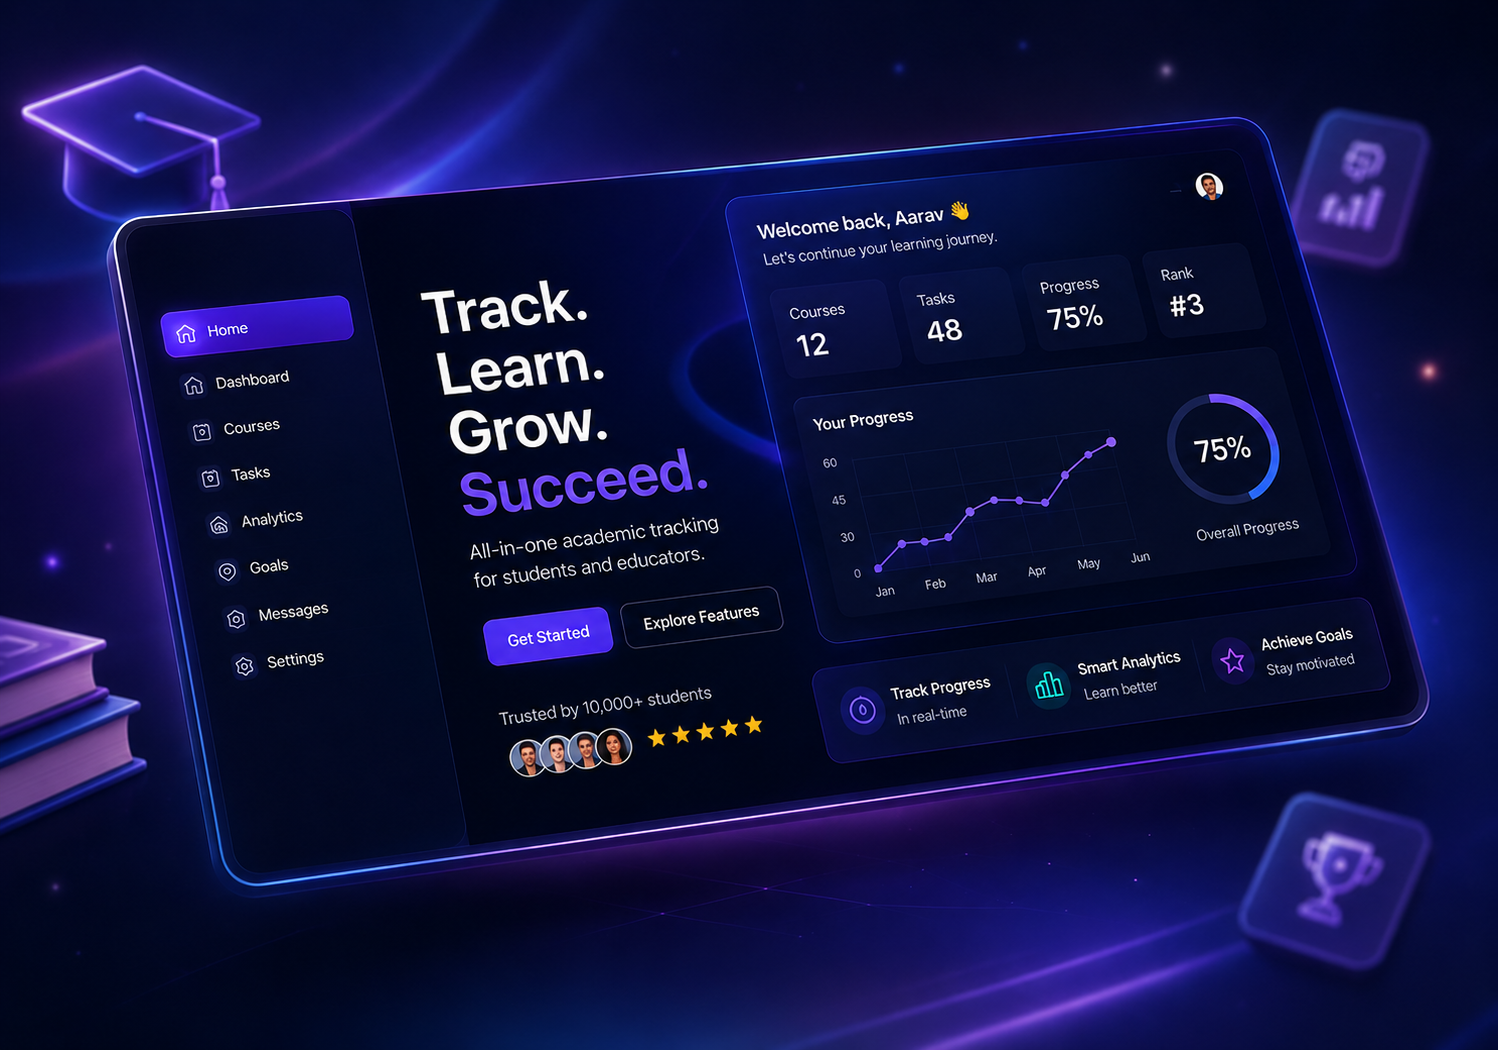
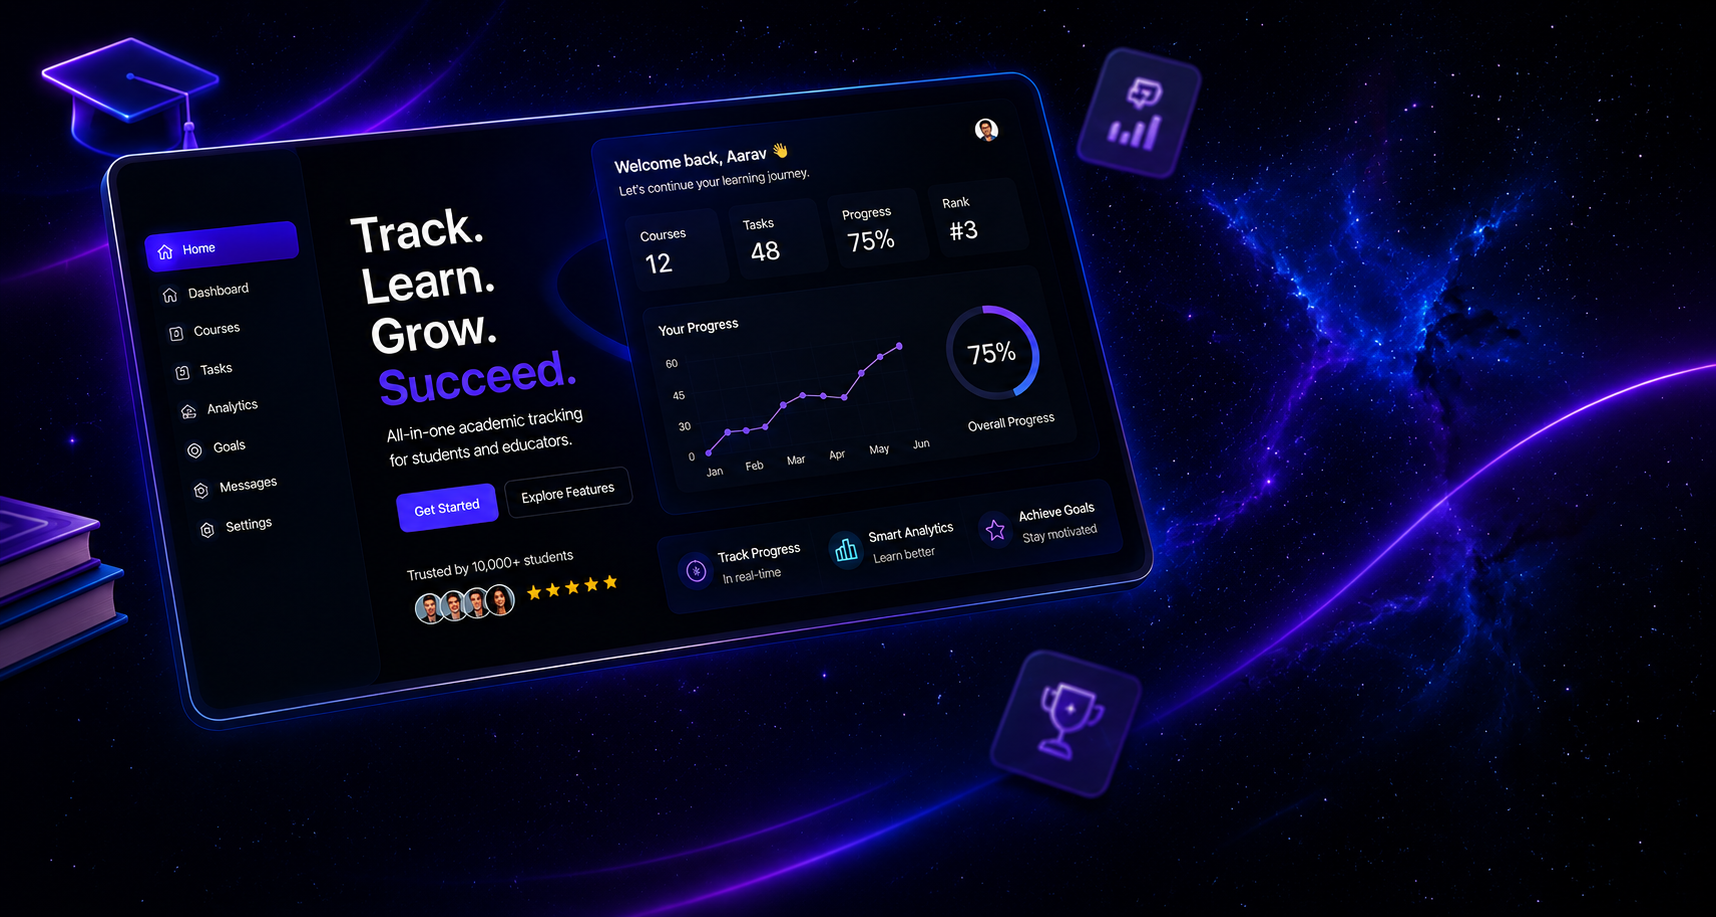
Redesigned Authorisation Page

diff --git a/frontend/src/styles/globals.css b/frontend/src/styles/globals.css
@@ -192,7 +192,7 @@ select {
 
 .card {
   padding: var(--space-5);
-  border: 1px solid var(--color-border);
+  border: 2px solid var(--color-border);
   border-radius: var(--radius-md);
   background: var(--color-surface);
   box-shadow: var(--shadow-sm);
@@ -339,7 +339,10 @@ select {
 }
 
 .field-label {
-  font-weight: 700;
+    font-size: 17px;
+    font-weight: 600;
+    margin-bottom: 10px;
+    letter-spacing: .2px;
 }
 
 .input {
@@ -513,18 +516,18 @@ select {
 }
 
 .auth-layout {
+  position: relative;
   min-height: 100vh;
   display: grid;
-  grid-template-columns: minmax(0, 1fr) 480px;
-  background: var(--color-bg);
+  place-items: center;
+  overflow: hidden;
 }
 
 .auth-visual {
-  position: relative;
-  display: grid;
-  align-content: end;
-  min-height: 100vh;
-  padding: 64px;
+  position: absolute;
+  inset: 0;
+  width: 100%;
+  height: 100%;
   overflow: hidden;
   color: white;
 }
@@ -535,28 +538,71 @@ select {
   width: 100%;
   height: 100%;
   object-fit: cover;
-  filter: brightness(0.55);
+  object-position: center;
+  
+  filter: brightness(0.7);
 }
 
 .auth-visual div {
-  position: relative;
+  position: absolute;
+  left: 40px;
+  bottom: 40px;
   max-width: 640px;
+  z-index: 2;
 }
 
 .auth-visual h1 {
   margin: 0;
-  font-size: 48px;
+  font-size: 72px;     
+  font-weight: 650;
   line-height: 1.05;
+  letter-spacing: -1px;
+  color: #ffffff; 
+}
+
+.auth-visual p {
+  margin-top: 18px;
+  font-size: 22px;
+  font-weight: 400;
+  line-height: 1.6;
+  color:rgb(255, 255, 255);
+  max-width: 700px;
 }
 
 .auth-panel {
-  display: grid;
-  place-items: center;
-  padding: var(--space-8);
+  position: relative;
+  z-index: 10;
+
+  display: flex;
+  justify-content: flex-end;
+  align-items: center;
+
+  width: 100%;
+  min-height: 100vh;
+
+  padding-right: 80px;
 }
 
 .auth-card {
-  width: min(100%, 380px);
+    width: min(100%, 430px);
+
+    padding: 44px;
+
+    border-radius: 28px;
+
+    background: rgba(12, 10, 35, 0.55);
+
+    backdrop-filter: blur(22px);
+    -webkit-backdrop-filter: blur(22px);
+
+    border: 1px solid rgba(124, 92, 255, 0.45);
+
+    box-shadow:
+        0 0 20px rgba(110, 70, 255, 0.35),
+        0 0 70px rgba(110, 70, 255, 0.18),
+        inset 0 0 0 1px rgba(255,255,255,0.04);
+
+    color: white;
 }
 
 .auth-card-header h2 {